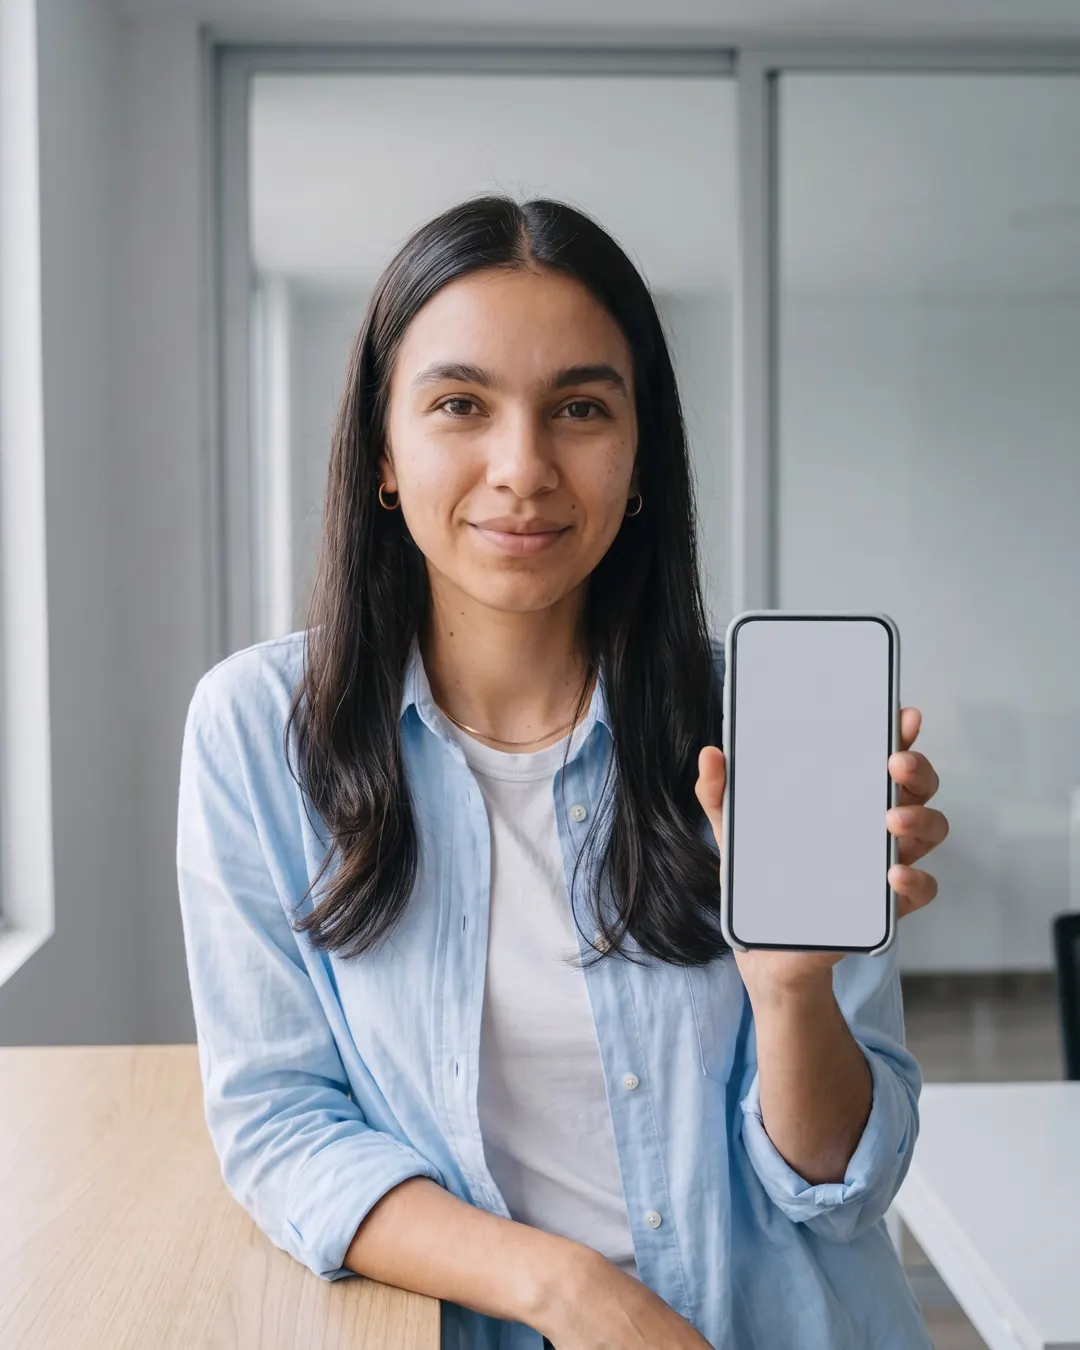
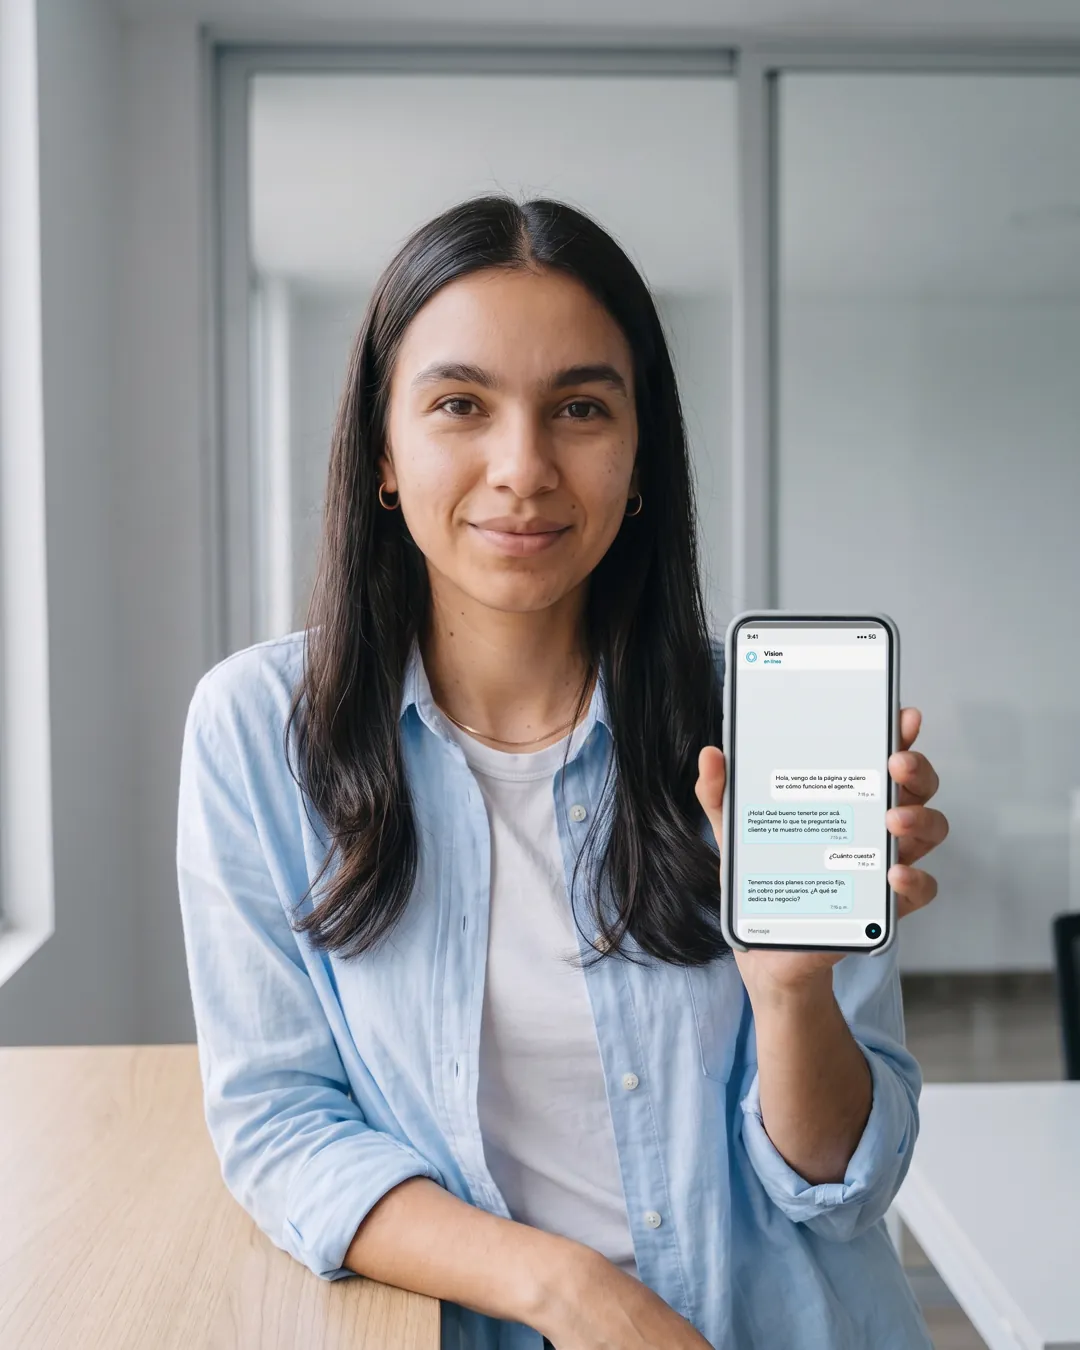
landing crm-whatsapp: pantallazos de Vision en los celulares de las fotos de Iris
Claude-Session: https://claude.ai/code/session_01LjXHQqVeUnbYaFxme75EnN

Changed region(s): [[0.6722, 0.4356, 0.825, 0.7156]]

diff --git a/crm-whatsapp.html b/crm-whatsapp.html
@@ -483,13 +483,13 @@ FINISH: unreviewed and undocumented is unfinished; this build ends with the fini
       <p>De día, de noche y en festivos, con la información de tu negocio.</p>
     </article>
     <article class="step rv">
-      <figure style="--pos:50% 30%"><img src="images/iris/iris-paso2.webp" alt="Iris muestra que la conversación ya avanzó" width="1080" height="1080" loading="lazy"></figure>
+      <figure style="--pos:50% 30%"><img src="images/iris/iris-paso2.webp?v=2" alt="Iris muestra que la conversación ya avanzó" width="1080" height="1080" loading="lazy"></figure>
       <p class="n">Paso 2</p>
       <h3>Califica y lo lleva al siguiente paso</h3>
       <p>Pregunta lo que preguntaría tu asesor y avanza según tu negocio: agenda la cita en el calendario que ya usas, toma los datos para una cotización o se lo pasa a tu equipo.</p>
     </article>
     <article class="step rv">
-      <figure style="--pos:50% 30%"><img src="images/iris/iris-paso3.webp" alt="Iris le pasa el celular a una persona del equipo" width="1080" height="1080" loading="lazy"></figure>
+      <figure style="--pos:50% 30%"><img src="images/iris/iris-paso3.webp?v=2" alt="Iris le pasa el celular a una persona del equipo" width="1080" height="1080" loading="lazy"></figure>
       <p class="n">Paso 3</p>
       <h3>Tu asesor sigue la conversación</h3>
       <p>Todo queda en el CRM. Cuando hace falta una persona, tu asesor continúa el chat sabiendo qué preguntó el cliente y qué le respondió la IA.</p>
@@ -654,7 +654,7 @@ FINISH: unreviewed and undocumented is unfinished; this build ends with the fini
 </section>
 
 <section class="close" aria-labelledby="cierre-h">
-  <div class="orb"><img src="images/iris/iris-cierre.webp" alt="Iris, la asesora de Vision, te invita a escribirle" width="1080" height="1350" loading="lazy"></div>
+  <div class="orb"><img src="images/iris/iris-cierre.webp?v=2" alt="Iris, la asesora de Vision, te invita a escribirle" width="1080" height="1350" loading="lazy"></div>
   <h2 id="cierre-h">La mejor prueba es escribirle</h2>
   <p>Pregúntale lo que te preguntaría tu cliente. Si quieres, te agenda una reunión de 30 minutos con nuestro equipo.</p>
   <a class="btn btn-wa" href="https://wa.me/573146922601?text=Hola%2C%20vengo%20de%20la%20p%C3%A1gina%20y%20quiero%20ver%20c%C3%B3mo%20funciona%20el%20agente.%20CODE%3AWEB-CRM-CIERRE" target="_blank" rel="noopener"><span class="dot" aria-hidden="true"></span>Escríbele a la IA</a>
